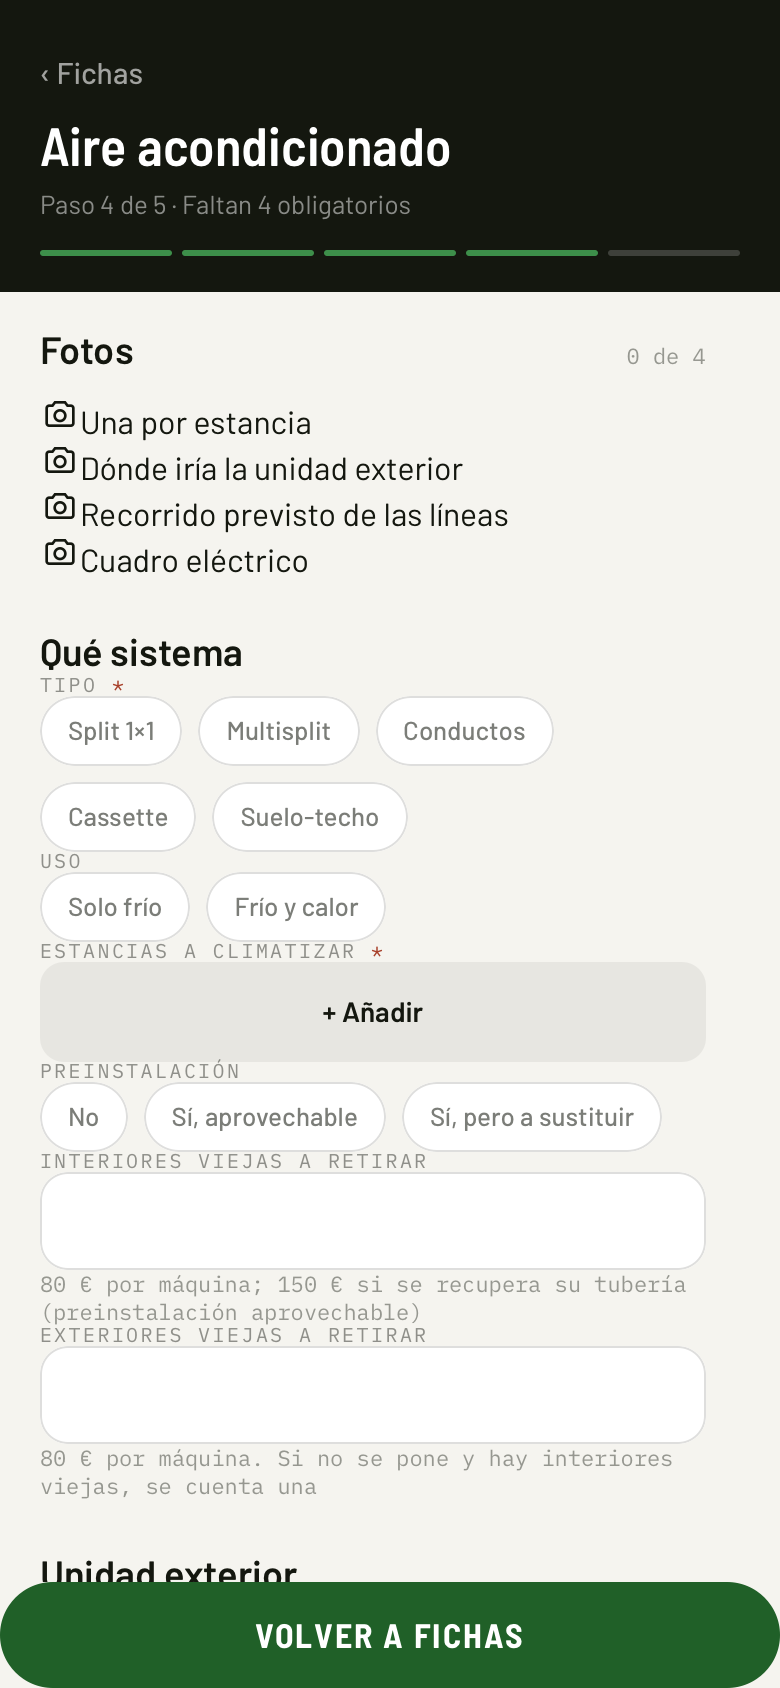
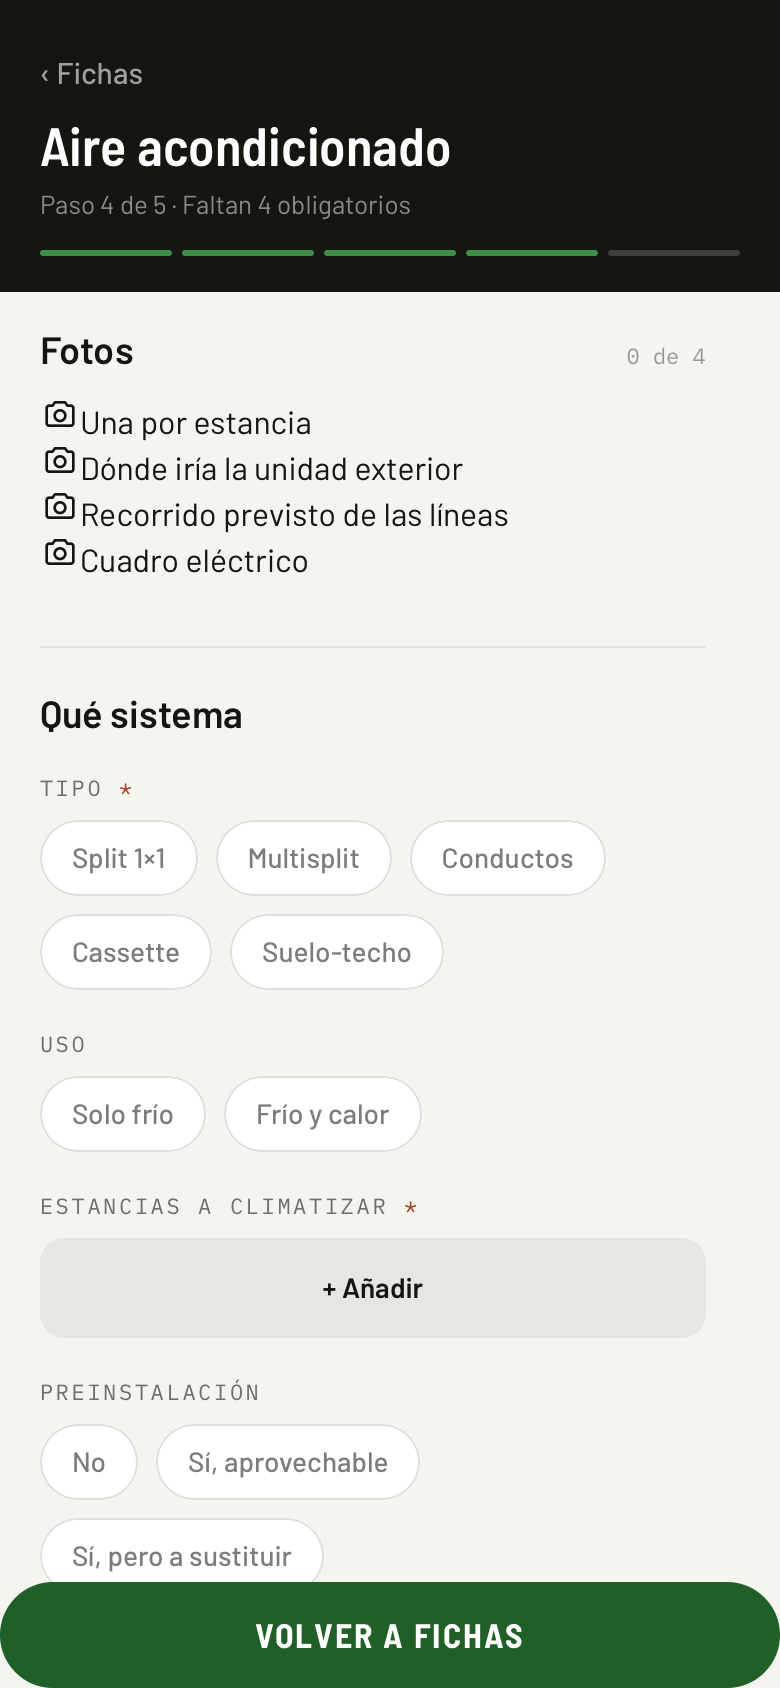
V20.3: la ficha de visita con aire: etiquetas, campos y ayudas separados, secciones con línea

diff --git a/index.html b/index.html
@@ -44,6 +44,16 @@ a:hover{color:var(--tinta)}
 
 .mono{font-family:var(--mono)}
 .lbl{font:400 10px/1 var(--mono);letter-spacing:.12em;text-transform:uppercase;color:rgba(20,23,15,.45)}
+/* Ficha de visita (visitas-form.js): un campo = etiqueta + control + ayuda, con aire entre ellos */
+.campo{margin-top:20px}
+.campo:first-of-type{margin-top:14px}
+.campo>.lbl{font-size:11px;line-height:1.3;margin-bottom:9px;color:rgba(20,23,15,.6)}
+.campo>.tiny{font:400 12px/1.4 var(--sans);color:var(--t3);margin-top:7px}
+.campo .row.g8{gap:9px}
+.campo .chip{padding:11px 15px;font-size:14px}
+.vf-sec{margin-top:34px;padding-top:22px;border-top:1px solid var(--l1)}
+.vf-sec:first-child{margin-top:8px;padding-top:0;border-top:0}
+.vf-sec>.h2{margin-bottom:4px}
 .h1{font:700 30px/1.05 var(--cond);letter-spacing:-.01em}
 .h2{font:600 19px/1.15 var(--sans)}
 .num{font-family:var(--cond);font-weight:600}
@@ -379,7 +389,7 @@ import * as visitasDB from './visitas-db.js';
 window.Sysefen = { supabase, auth: sysAuth, db: sysDB };
 
 const KEY = 'ch_v1';
-const APP_VERSION = '20.2'; // versión visible de la app (única fuente)
+const APP_VERSION = '20.3'; // versión visible de la app (única fuente)
 const $ = (s) => document.querySelector(s);
 const esc = (v) => String(v == null ? '' : v).replace(/[&<>"']/g, (c) => ({ '&': '&amp;', '<': '&lt;', '>': '&gt;', '"': '&quot;', "'": '&#39;' }[c]));
 const uid = () => Date.now().toString(36) + Math.random().toString(36).slice(2, 7);

diff --git a/visitas-form.js b/visitas-form.js
@@ -117,8 +117,8 @@ function subcampoHTML(s, valor, listaKey, i) {
  * Una sección y una ficha entera
  * ------------------------------------------------------------------------- */
 export function seccionHTML(sec, datos, tocados = {}) {
-  return `<div style="margin-top:26px">
-    <div class="h2" style="margin-bottom:2px">${esc(sec.titulo)}</div>
+  return `<div class="vf-sec">
+    <div class="h2">${esc(sec.titulo)}</div>
     ${sec.campos.map((c) => campoHTML(c, datos?.[c.key], tocados[c.key])).join('')}
   </div>`;
 }

diff --git a/sw.js b/sw.js
@@ -1,4 +1,4 @@
-const CACHE = 'ch-v20-2';
+const CACHE = 'ch-v20-3';
 const ASSETS = ['./', './index.html', './manifest.webmanifest', './supabase-client.js', './supabase-auth.js', './supabase-db.js', './visitas-schemas.js', './visitas-form.js', './visitas-db.js', './icon-192.png?v=2', './icon-512.png?v=2', './icon-maskable.png?v=2', './logo-trans.png?v=3', './logo-blanco.png?v=3', './logo-s-blanco.png?v=2', './fondo-login.jpg'];
 
 // Al instalarse una versión nueva NO se activa sola: se queda esperando y la
